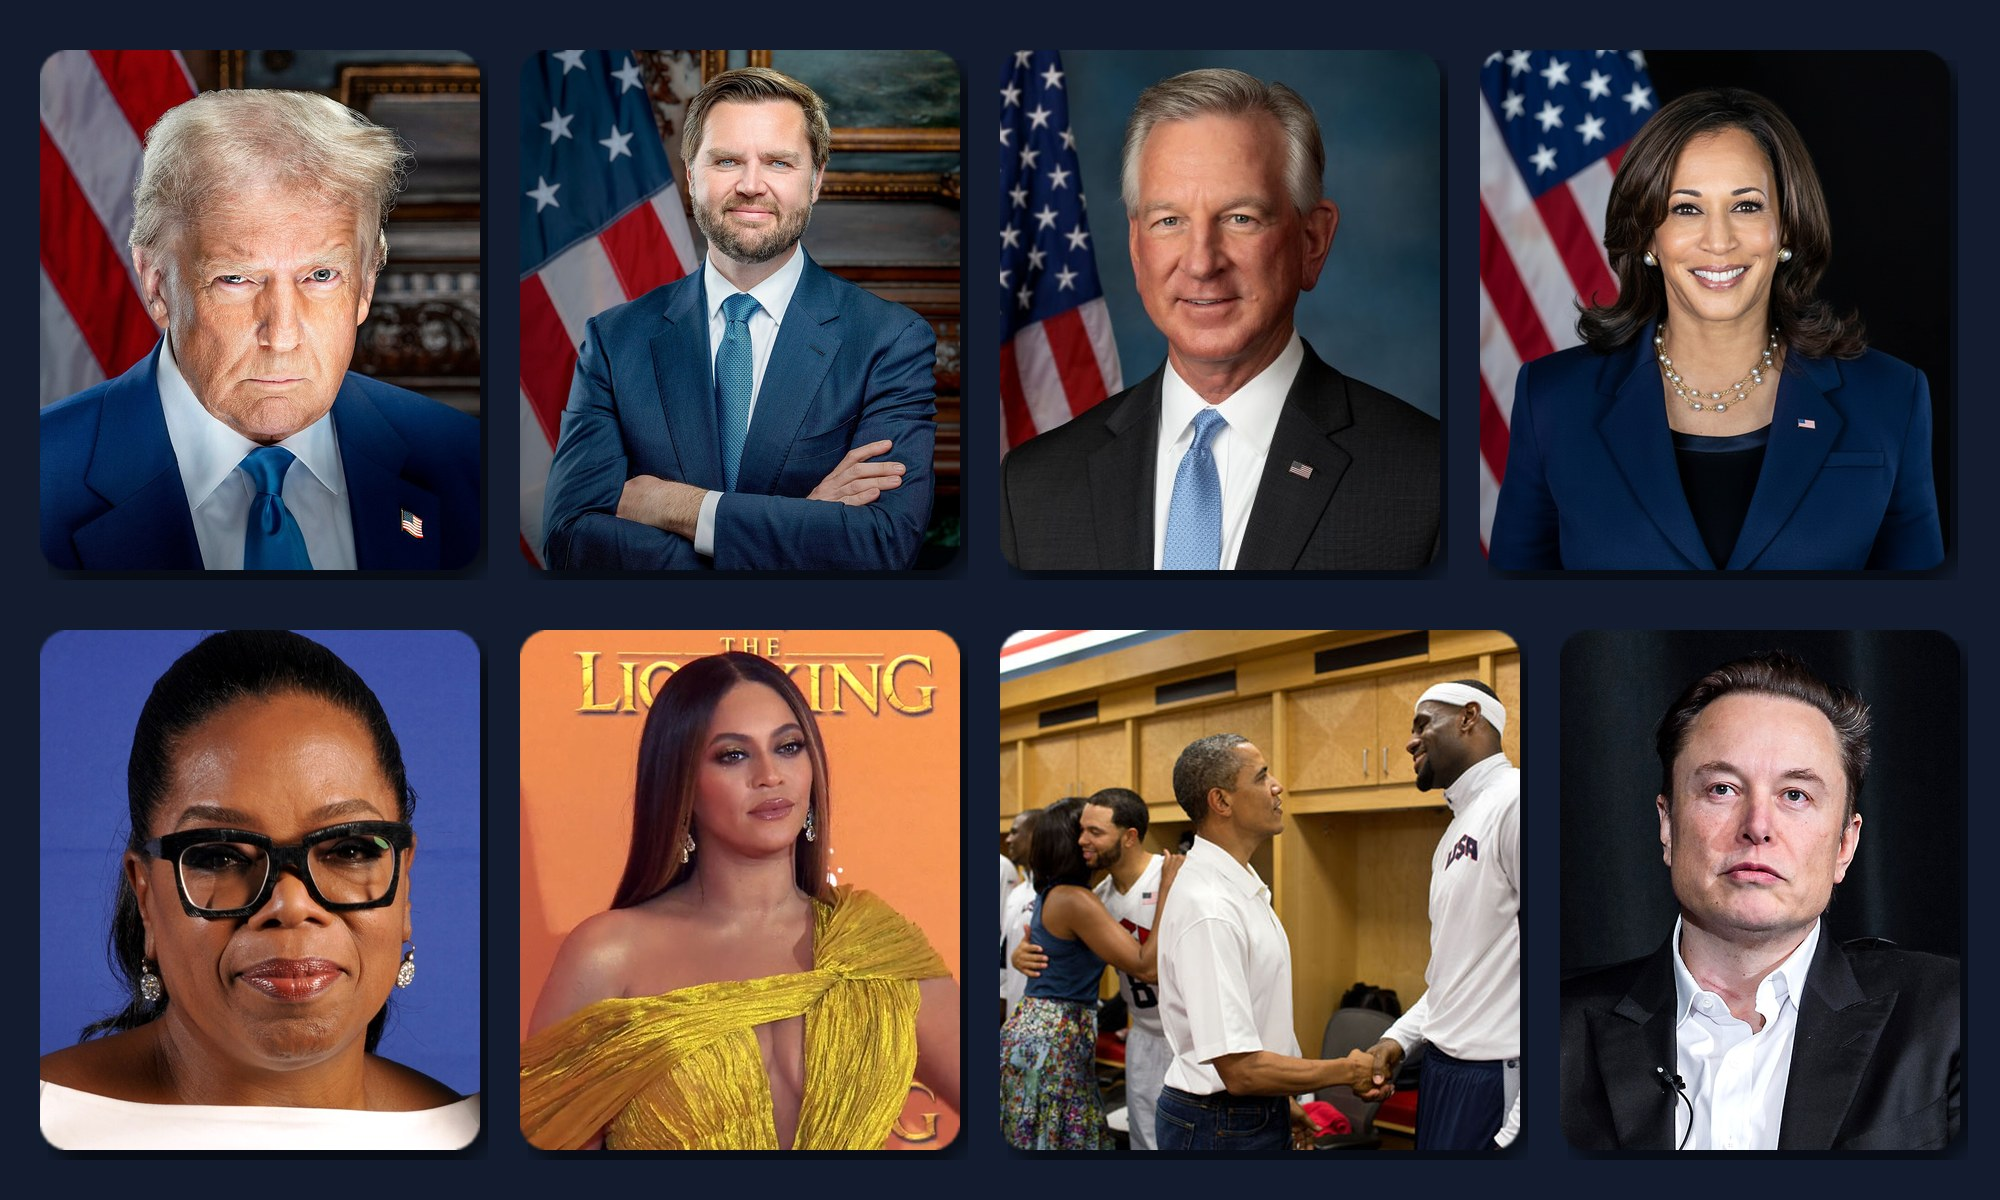
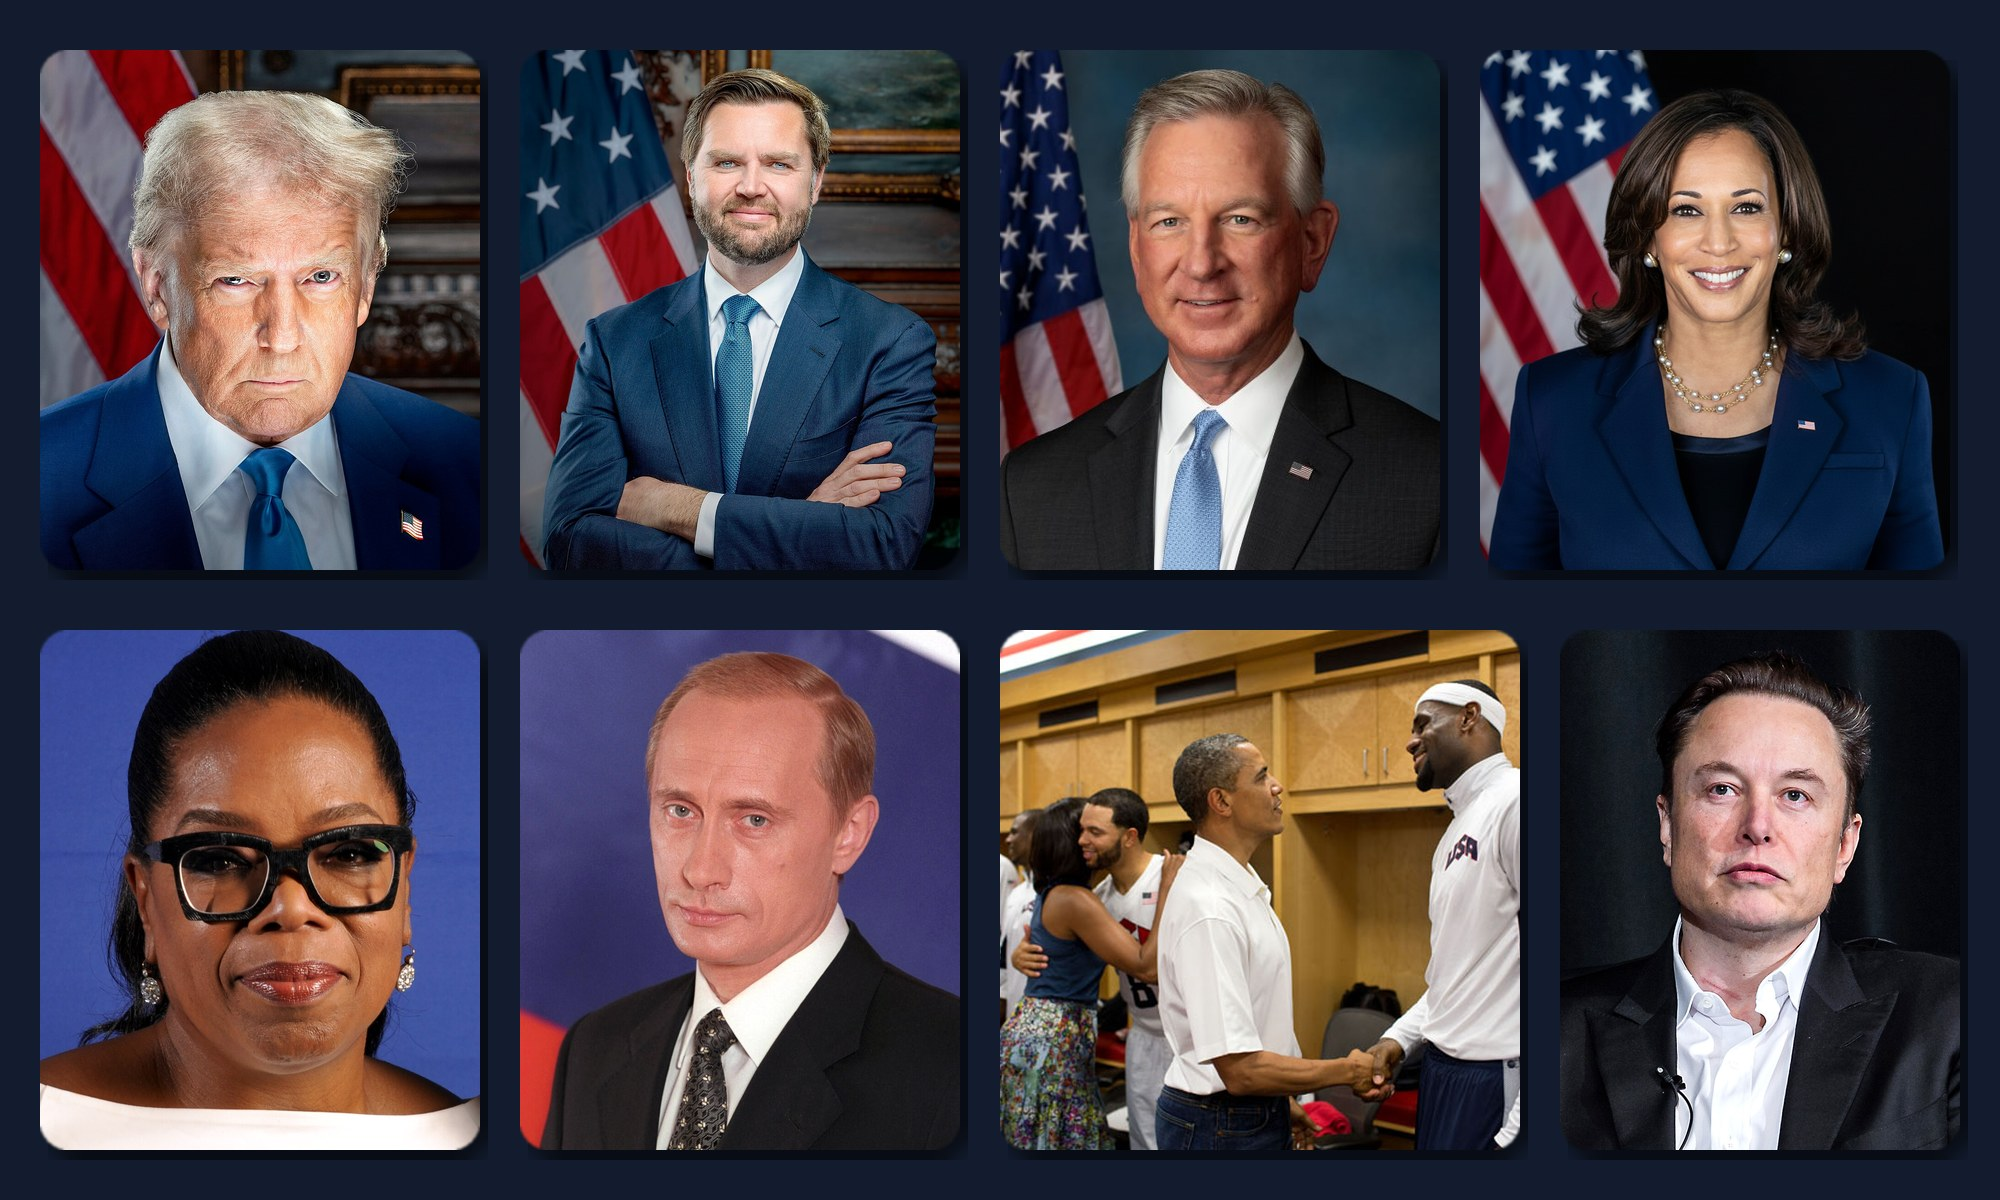
Replace Beyonce with Putin

diff --git a/style.css b/style.css
@@ -3,7 +3,7 @@
 html{background:#080d14}
 body{margin:0;color:var(--fg);font:15px/1.55 -apple-system,BlinkMacSystemFont,"Segoe UI",Roboto,sans-serif;
   background-color:#080d14;
-  background-image:radial-gradient(ellipse at 50% 40%,rgba(8,13,20,0) 42%,rgba(8,13,20,.35) 100%),url("assets/collage-bg.jpg?v=7");
+  background-image:radial-gradient(ellipse at 50% 40%,rgba(8,13,20,0) 42%,rgba(8,13,20,.35) 100%),url("assets/collage-bg.jpg?v=8");
   background-repeat:no-repeat;background-position:center;background-size:cover;background-attachment:fixed}
 header{padding:14px 16px 10px;border-bottom:1px solid var(--line);position:sticky;top:0;background:rgba(8,13,20,.94);backdrop-filter:blur(12px);z-index:2}
 @media(prefers-reduced-motion:reduce){header::after{animation:none}}

diff --git a/index.html b/index.html
@@ -26,7 +26,7 @@
 <link rel="preconnect" href="https://fonts.googleapis.com">
 <link rel="preconnect" href="https://fonts.gstatic.com" crossorigin>
 <link rel="stylesheet" href="https://fonts.googleapis.com/css2?family=Cinzel+Decorative:wght@700;900&display=swap">
-<link rel="stylesheet" href="style.css?v=15">
+<link rel="stylesheet" href="style.css?v=16">
 </head>
 <body>
 <header>
